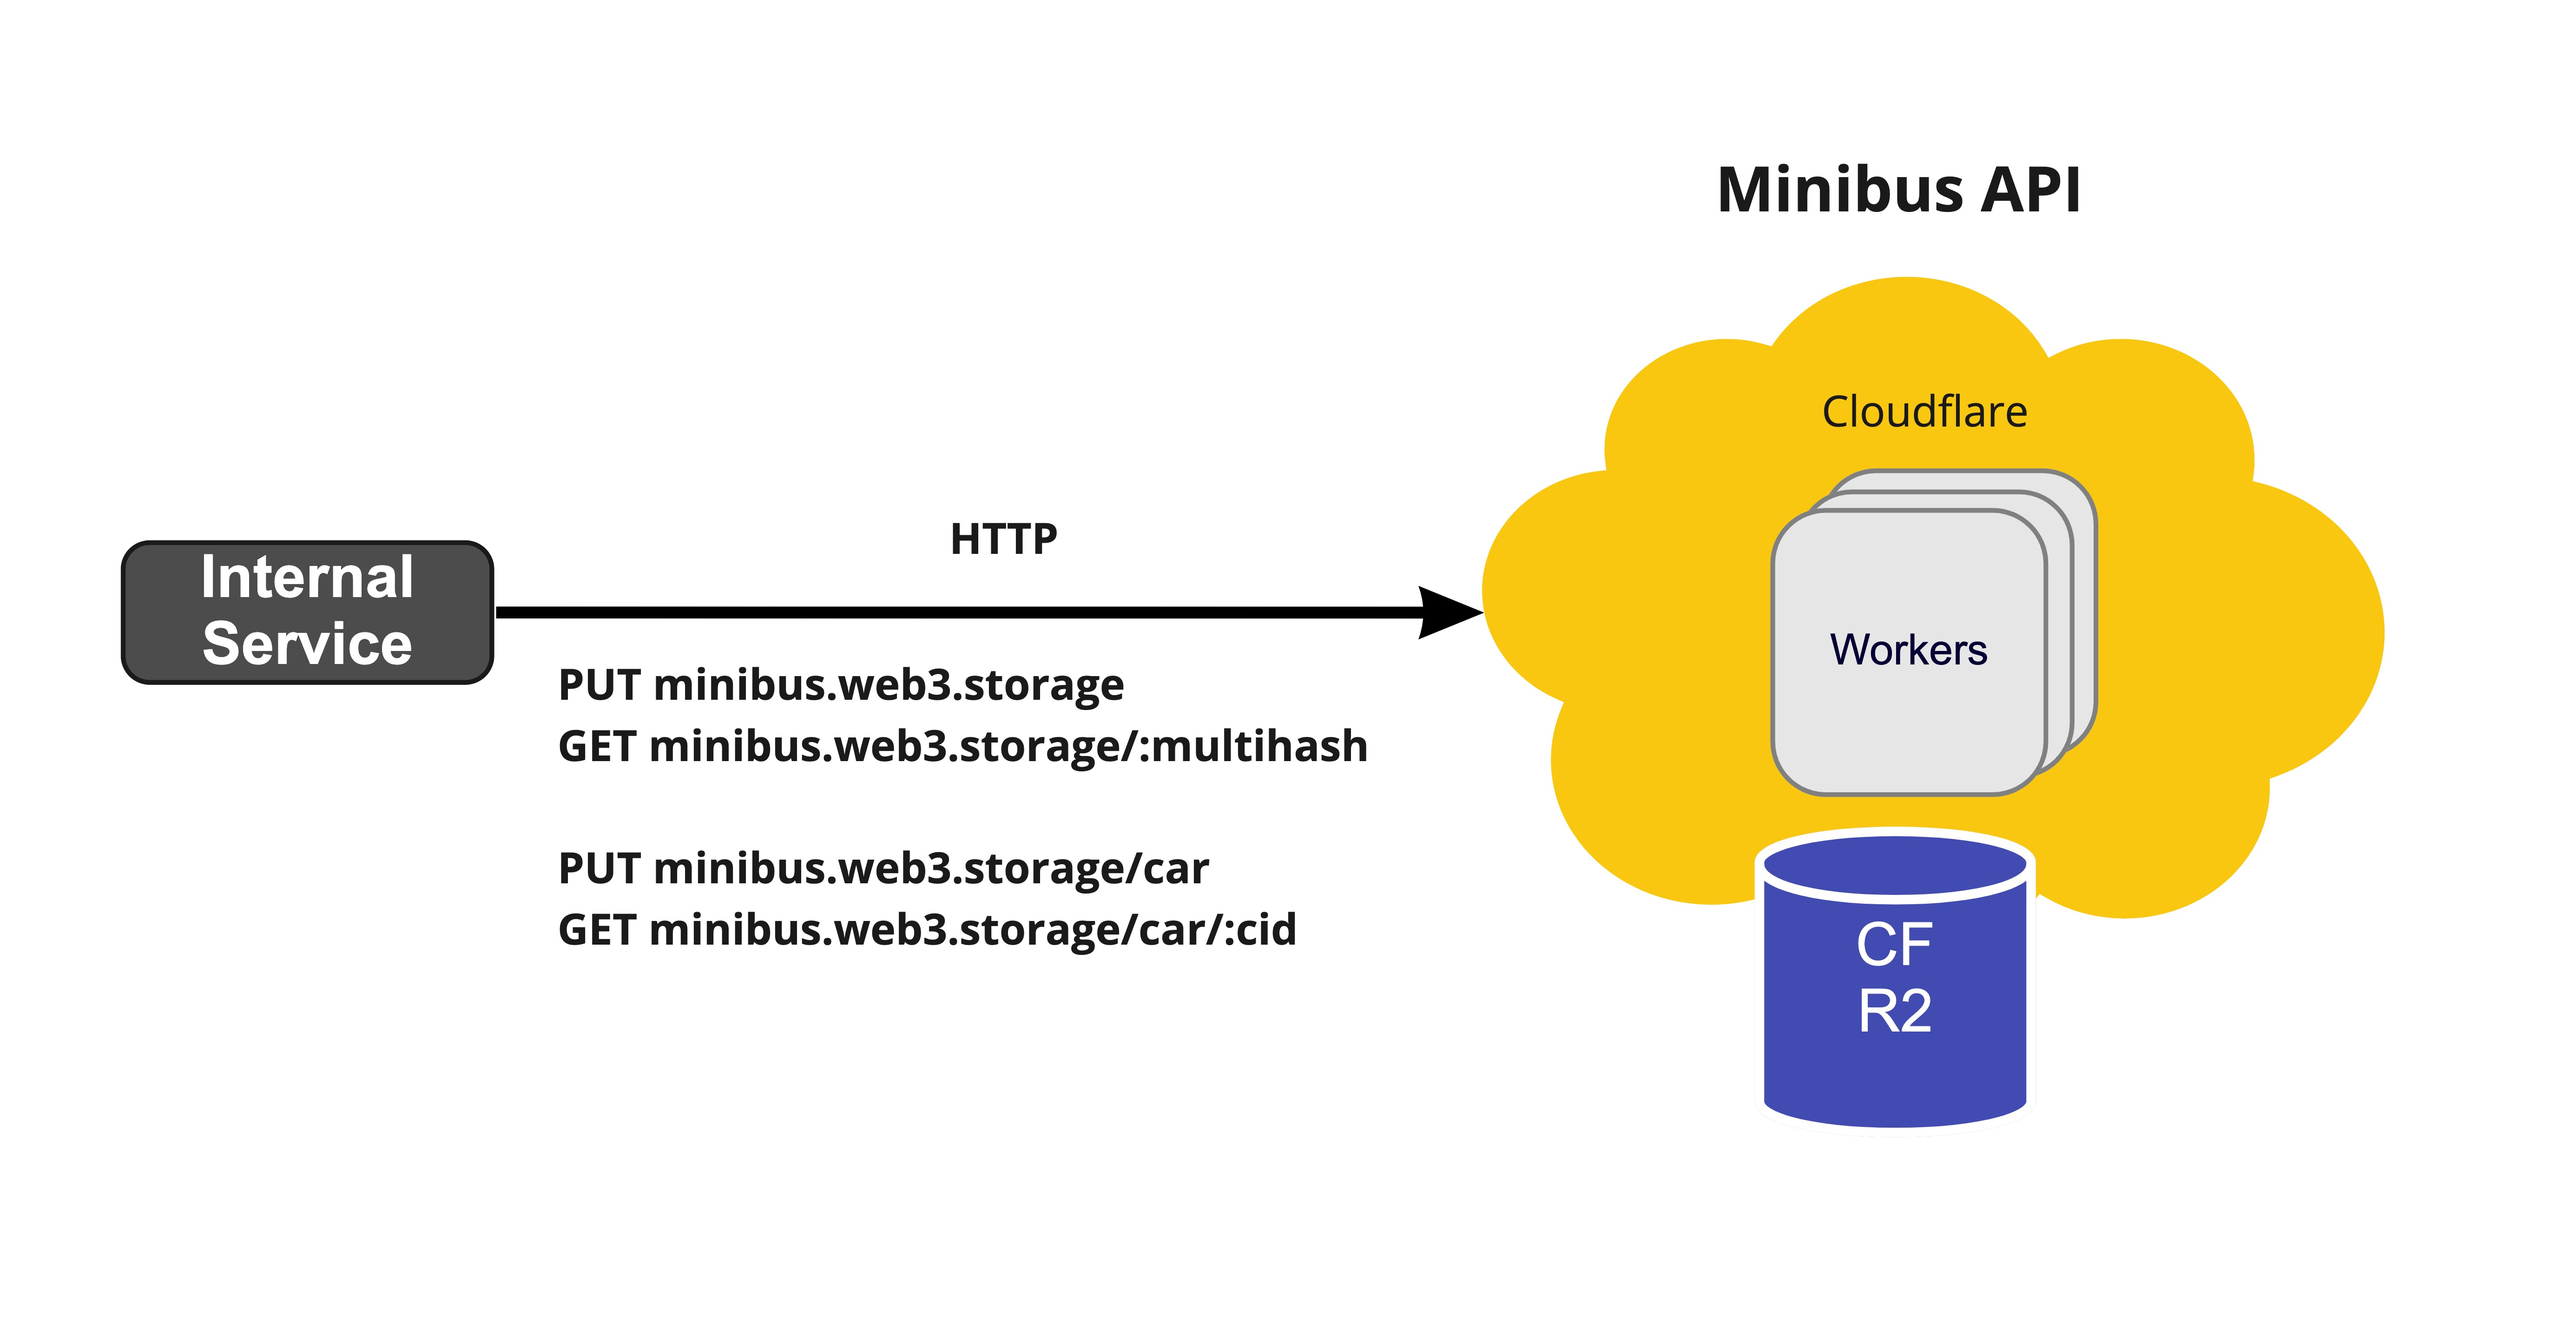
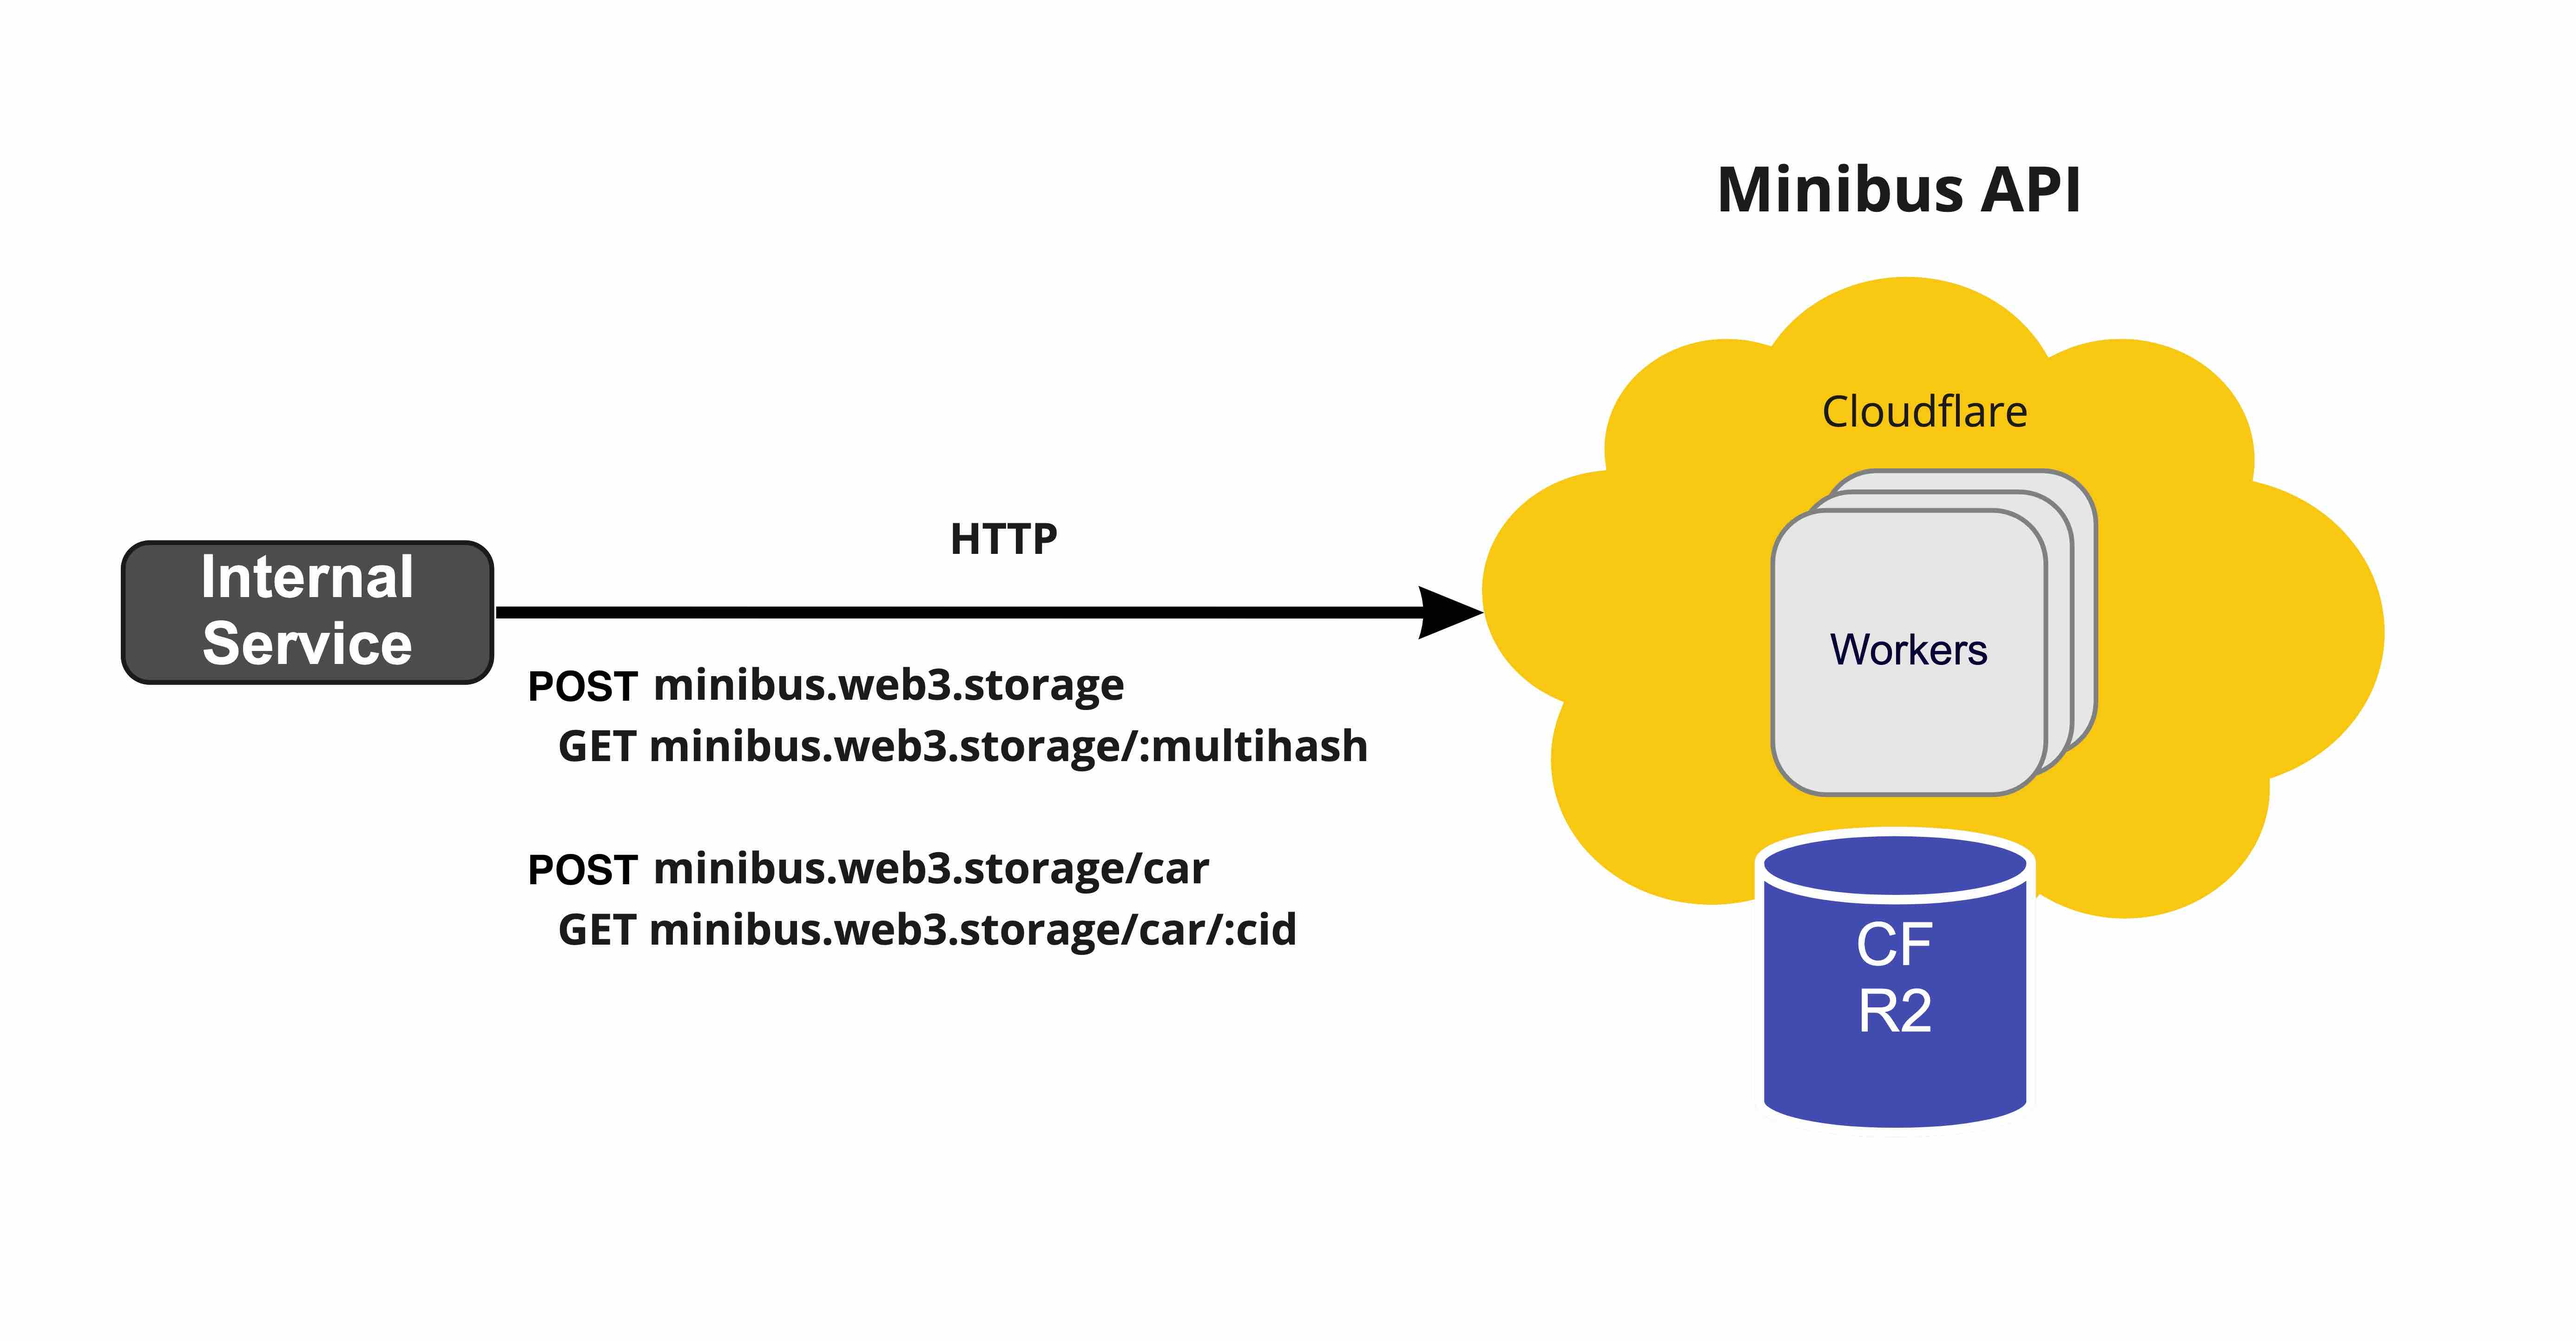
refactor!: change PUT / to POST / (#8)
> The HTTP PUT request method creates a new resource or replaces a representation of the target resource with the request payload.
> https://developer.mozilla.org/en-US/docs/Web/HTTP/Methods/PUT

We're neither creating a new resource or replacing an existing one at `/` so it's more appropriate to use `POST`.

BREAKING CHANGE: the `PUT /` endpoint now only accepts a HTTP `POST` method.

Changed region(s): [[0.1873, 0.6237, 0.2497, 0.6549], [0.1873, 0.499, 0.2497, 0.5301], [0.7491, 0.2807, 0.7803, 0.3119]]

diff --git a/test/block.spec.js b/test/block.spec.js
@@ -19,52 +19,52 @@ test.beforeEach(async (t) => {
   }
 })
 
-test('can put and get block with default multihash', async (t) => {
+test('can post and get block with default multihash', async (t) => {
   const { mf, token } = t.context
 
   const data = JSON.stringify({ hello: 'world' })
-  const putBlob = new Blob([data])
+  const postBlob = new Blob([data])
 
-  const putResponse = await mf.dispatchFetch('https://localhost:8787', {
-    method: 'PUT',
-    body: putBlob,
+  const postResponse = await mf.dispatchFetch('https://localhost:8787', {
+    method: 'POST',
+    body: postBlob,
     headers: { Authorization: `Basic ${token}` }
   })
-  const blockPutResult = await putResponse.json()
-  t.truthy(blockPutResult.multihash)
+  const blockPostResult = await postResponse.json()
+  t.truthy(blockPostResult.multihash)
 
-  const getResponse = await mf.dispatchFetch(`https://localhost:8787/${blockPutResult.multihash}`, {
+  const getResponse = await mf.dispatchFetch(`https://localhost:8787/${blockPostResult.multihash}`, {
     headers: { Authorization: `Basic ${token}` }
   })
   const getBlob = await getResponse.blob()
-  t.deepEqual(putBlob.size, getBlob.size)
+  t.deepEqual(postBlob.size, getBlob.size)
 
   const getData = await getBlob.text()
   t.deepEqual(data, getData)
 })
 
-test('can put and get block with different multihash encoding', async (t) => {
+test('can post and get block with different multihash encoding', async (t) => {
   const { mf, token } = t.context
 
   const data = JSON.stringify({ hello: 'world' })
-  const putBlob = new Blob([data])
+  const postBlob = new Blob([data])
 
-  const putResponse = await mf.dispatchFetch('https://localhost:8787', {
-    method: 'PUT',
-    body: putBlob,
+  const postResponse = await mf.dispatchFetch('https://localhost:8787', {
+    method: 'POST',
+    body: postBlob,
     headers: { Authorization: `Basic ${token}` }
   })
-  const blockPutResult = await putResponse.json()
-  t.truthy(blockPutResult.multihash)
+  const blockPostResult = await postResponse.json()
+  t.truthy(blockPostResult.multihash)
 
-  const b58Bytes = base58btc.decode(blockPutResult.multihash)
+  const b58Bytes = base58btc.decode(blockPostResult.multihash)
   const b16Multihash = base16.encode(b58Bytes)
 
   const getResponse = await mf.dispatchFetch(`https://localhost:8787/${b16Multihash}`, {
     headers: { Authorization: `Basic ${token}` }
   })
   const getBlob = await getResponse.blob()
-  t.deepEqual(putBlob.size, getBlob.size)
+  t.deepEqual(postBlob.size, getBlob.size)
 
   const getData = await getBlob.text()
   t.deepEqual(data, getData)
@@ -98,15 +98,15 @@ test('redirects to get multihash if tried to get cid', async (t) => {
   const { mf, token } = t.context
 
   const data = JSON.stringify({ hello: 'world' })
-  const putBlob = new Blob([data])
+  const postBlob = new Blob([data])
 
-  const putResponse = await mf.dispatchFetch('https://localhost:8787', {
-    method: 'PUT',
-    body: putBlob,
+  const postResponse = await mf.dispatchFetch('https://localhost:8787', {
+    method: 'POST',
+    body: postBlob,
     headers: { Authorization: `Basic ${token}` }
   })
-  const blockPutResult = await putResponse.json()
-  t.truthy(blockPutResult.multihash)
+  const blockPostResult = await postResponse.json()
+  t.truthy(blockPostResult.multihash)
 
   const digestBlob = new Uint8Array(await (new Blob([data])).arrayBuffer())
   const digest = await sha256.digest(digestBlob)
@@ -116,5 +116,5 @@ test('redirects to get multihash if tried to get cid', async (t) => {
     headers: { Authorization: `Basic ${token}` }
   })
   t.is(getResponseFromCid.status, 301)
-  t.is(getResponseFromCid.headers.get('location'), `https://localhost:8787/${blockPutResult.multihash}`)
+  t.is(getResponseFromCid.headers.get('location'), `https://localhost:8787/${blockPostResult.multihash}`)
 })

diff --git a/test/auth.spec.js b/test/auth.spec.js
@@ -13,7 +13,7 @@ test('Fails with 401 authentication when no token provided', async (t) => {
   const { mf } = t.context
 
   const response = await mf.dispatchFetch('https://localhost:8787', {
-    method: 'PUT'
+    method: 'POST'
   })
   t.is(response.status, 401)
 })
@@ -23,7 +23,7 @@ test('Fails with 401 authentication when invalid token provided', async (t) => {
   const token = await createTestToken()
 
   const response = await mf.dispatchFetch('https://localhost:8787', {
-    method: 'PUT',
+    method: 'POST',
     headers: { Authorization: `${token}` } // Not Basic /token/
   })
   t.is(response.status, 401)

diff --git a/src/index.js b/src/index.js
@@ -7,7 +7,7 @@ import { envAll } from './env.js'
 import { errorHandler } from './error-handler.js'
 import { addCorsHeaders, withCorsHeaders } from './cors.js'
 import { versionGet } from './version.js'
-import { blockPut } from './block/put.js'
+import { blockPost } from './block/post.js'
 import { blockGet } from './block/get.js'
 
 const router = Router()
@@ -20,7 +20,7 @@ const auth = {
 router
   .all('*', envAll)
   .get('/version', auth['🤲'](versionGet))
-  .put('/', auth['🔒'](blockPut))
+  .post('/', auth['🔒'](blockPost))
   .get('/:multihash', auth['🔒'](blockGet))
 
 /**

diff --git a/src/block/post.js b/src/block/post.js
@@ -13,12 +13,12 @@ import { BlockSizeInvalidError } from '../errors.js'
  */
 
 /**
- * Handle block put request
+ * Handle block post request
  *
  * @param {Request} request
  * @param {Env} env
  */
-export async function blockPut (request, env) {
+export async function blockPost (request, env) {
   const buffer = await request.arrayBuffer()
   const data = new Uint8Array(buffer)
 

diff --git a/README.md b/README.md
@@ -52,7 +52,7 @@ The Edge HTTP internal API to store IPFS data structures on R2.
 
 You can see full HTTP API specification at https://web3.storage/block-service-docs.
 
-### 🔒 `PUT /`
+### 🔒 `POST /`
 
 > Store individuals blocks by multihash in R2.
 
